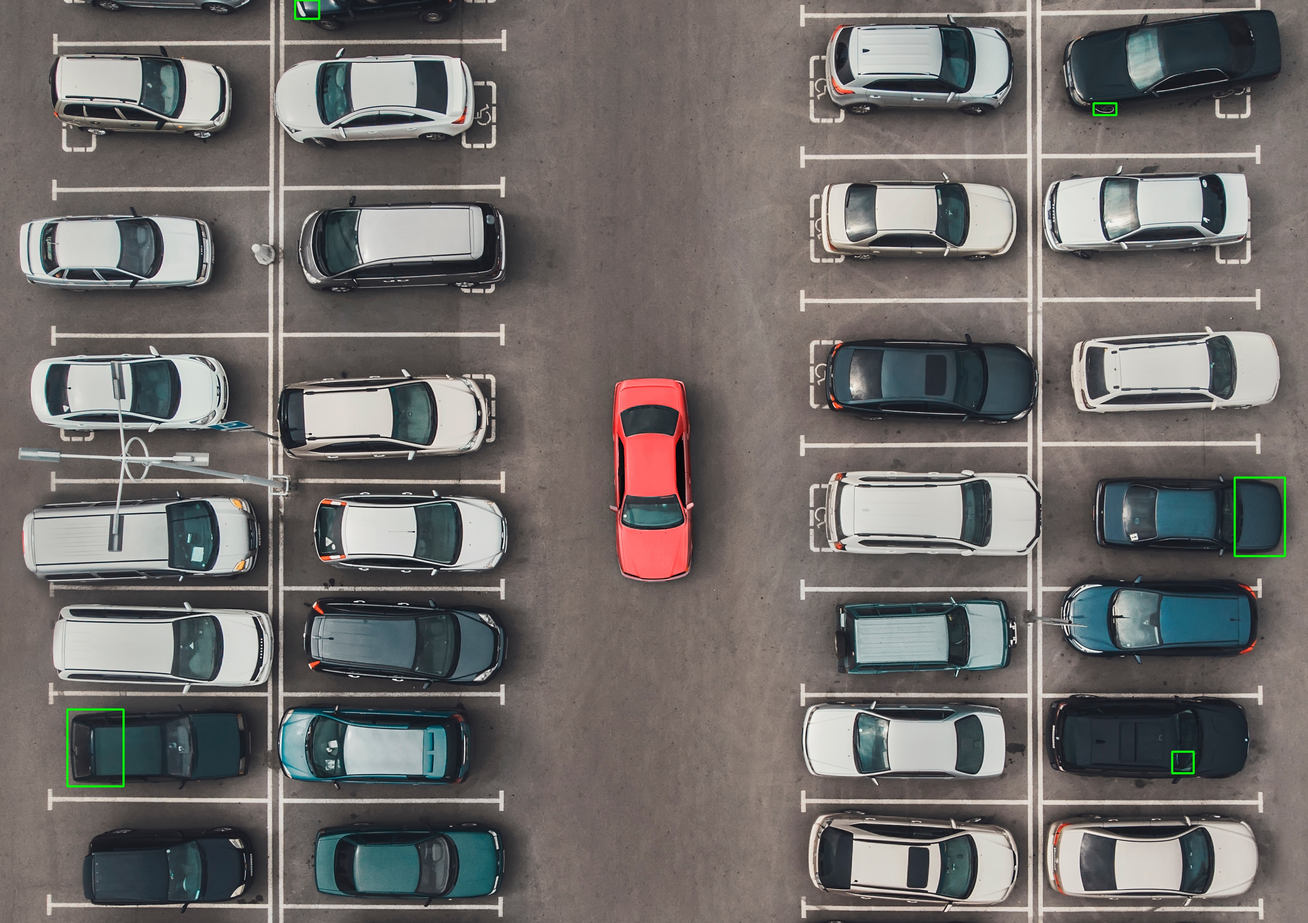
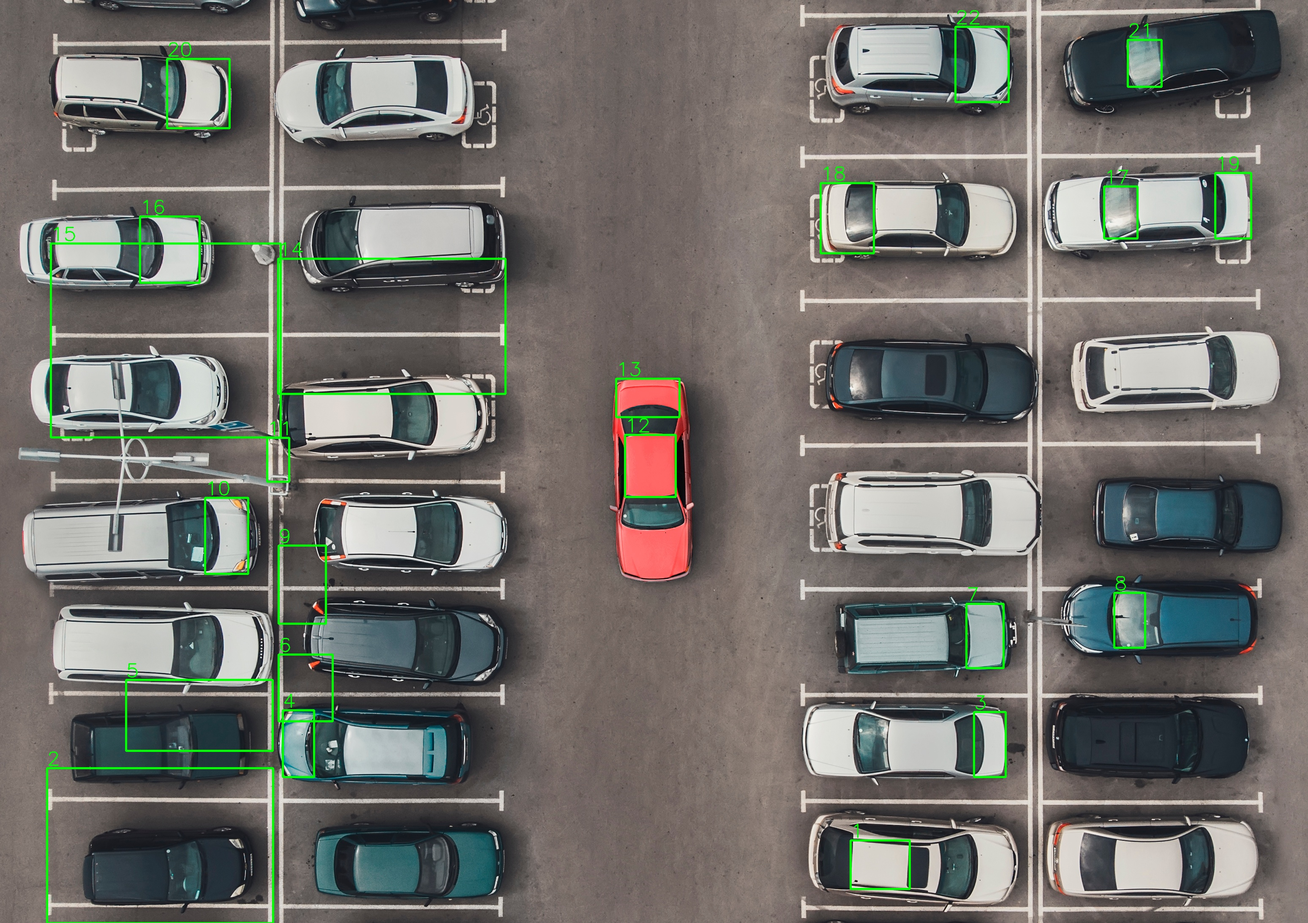
feat: chore: adjust kernel size, save pipeline steps, display box number, update readme

diff --git a/mp2-object-counting/mp2.py b/mp2-object-counting/mp2.py
@@ -2,33 +2,25 @@ import cv2
 import numpy as np
 import matplotlib.pyplot as plt
 
-# 1. BACA GAMBAR
 img_bgr = cv2.imread('input/parking_ori.jpg')
 img_rgb = cv2.cvtColor(img_bgr, cv2.COLOR_BGR2RGB)
 gray = cv2.cvtColor(img_bgr, cv2.COLOR_BGR2GRAY)
 
-# --- TAHAP 1: PREPROCESSING & THRESHOLDING ---
-# Blur sedang untuk membuang noise pasir
+# remove grainy noise
 blurred = cv2.GaussianBlur(gray, (5, 5), 0)
 
-# OTSU THRESHOLDING (PENGGANTI CANNY)
-# Memisahkan area terang (mobil/garis) dan gelap (aspal) secara otomatis
+# otsu thresholding for separating bright(cars) and dark areas
 _, thresh = cv2.threshold(blurred, 0, 255, cv2.THRESH_BINARY + cv2.THRESH_OTSU)
 
 
-# --- TAHAP 2: MORPHOLOGICAL CLEANING ---
-# Masalah baru: Garis parkir ikut jadi putih.
-# Solusi: Kita "hapus" garis putih yang tipis menggunakan Opening (Erosi lalu Dilasi)
-# Kita pakai kernel bentuk "kotak" yang ukurannya disesuaikan untuk menghapus garis tapi mempertahankan mobil
-kernel_open = np.ones((7, 7), np.uint8)
+kernel_open = np.ones((5, 5), np.uint8)
 opened = cv2.morphologyEx(thresh, cv2.MORPH_OPEN, kernel_open)
 
-# Setelah garis parkir mulai hilang, kita padatkan lagi sisa mobilnya (Dilasi)
-kernel_dilate = np.ones((5, 5), np.uint8)
+# memadatkan mobil
+kernel_dilate = np.ones((3, 3), np.uint8)
 dilated = cv2.dilate(opened, kernel_dilate, iterations=1)
 
 
-# --- TAHAP 3: CONTOURS & FILTERING ---
 contours, hierarchy = cv2.findContours(dilated, cv2.RETR_EXTERNAL, cv2.CHAIN_APPROX_SIMPLE)
 result_img = img_rgb.copy()
 car_count = 0
@@ -36,39 +28,44 @@ car_count = 0
 for cnt in contours:
     area = cv2.contourArea(cnt)
     
-    # FILTER AREA
-    # Karena mobil sekarang berupa blok padat yang besar, batasnya bisa kita set lebar
+    # filter area
     if 2500 < area < 15000: 
         x, y, w, h = cv2.boundingRect(cnt)
         aspect_ratio = float(w) / h
         
-        # FILTER BENTUK (Buang sisa garis parkir yang memanjang)
+        # filter bentuk (buang garis parkir yg memanjang)
         if 0.4 < aspect_ratio < 2.5:
-            cv2.rectangle(result_img, (x, y), (x+w, y+h), (0, 255, 0), 4)
             car_count += 1
+            cv2.rectangle(result_img, (x, y), (x+w, y+h), (0, 255, 0), 4)
+            cv2.putText(result_img, f"{car_count}", (x, y - 7), 
+                            cv2.FONT_HERSHEY_SIMPLEX, 1.5, (0, 255, 0), 2)
 
-# --- VISUALISASI ---
+
 plt.figure(figsize=(15, 10))
 
 plt.subplot(2, 2, 1)
 plt.imshow(thresh, cmap='gray')
 plt.title('1. Otsu Threshold (Banyak Noise Garis)')
 plt.axis('off')
+cv2.imwrite('output/steps/parking_thresh.jpg', thresh)
 
 plt.subplot(2, 2, 2)
 plt.imshow(opened, cmap='gray')
 plt.title('2. Morph Opening (Garis Dihapus)')
 plt.axis('off')
+cv2.imwrite('output/steps/parking_opened.jpg', opened)
 
 plt.subplot(2, 2, 3)
 plt.imshow(dilated, cmap='gray')
 plt.title('3. Morph Dilation (Mobil Dipadatkan)')
 plt.axis('off')
+cv2.imwrite('output/steps/parking_dilated.jpg', dilated)
 
 plt.subplot(2, 2, 4)
 plt.imshow(result_img)
 plt.title(f'4. Hasil Akhir ({car_count} Mobil)')
 plt.axis('off')
+cv2.imwrite('output/parking_counted.jpg', cv2.cvtColor(result_img, cv2.COLOR_RGB2BGR))
 
 plt.tight_layout()
 plt.show()

diff --git a/mp2-object-counting/README.md b/mp2-object-counting/README.md
@@ -2,3 +2,75 @@
 - **Nama**: Anak Agung Ngurah Agung Kresna Ananta
 - **NRP**: 5024241085
 
+## Struktur Project
+```
+mp2-object-counting/
+├── README.md              # Dokumentasi proyek
+├── counting.py            # Program Python utama
+├── input/
+│   └── parking.jpg        # Citra input
+└── output/
+    ├── result.png         # Citra output (mobil ditandai/diberi bounding box)
+    └── steps/             # Visualisasi tiap tahap pipeline
+```
+
+## Penjelasan Pipeline
+Pendekatan yang digunakan dalam proyek ini adalah **Threshold-based Segmentation** dipadukan dengan **Morphological Operations**. Berikut adalah tahapannya:
+
+1. **Preprocessing (Grayscale & Gaussian Blur):**
+   - Citra diubah menjadi *grayscale* untuk menyederhanakan matriks warna menjadi intensitas cahaya (0-255).
+   - Diterapkan `cv2.GaussianBlur` dengan kernel (5,5) untuk menghaluskan noise berpasir pada tekstur aspal tanpa merusak garis tepi mobil yang signifikan.
+
+2. **Otsu Thresholding:**
+   - Menggunakan `cv2.threshold` dengan metode Otsu. Algoritma ini secara otomatis mencari nilai ambang batas (*threshold*) paling optimal untuk memisahkan objek terang (mobil putih/terang dan garis parkir) dari *background* gelap (aspal).
+
+3. **Morphological Cleaning (Opening):**
+   - Hasil thresholding menghasilkan banyak "sampah" berupa garis parkir putih.
+   - Operasi `cv2.morphologyEx` dengan mode `MORPH_OPEN` (kernel 5x5) digunakan. Proses ini (Erosi diikuti Dilasi) secara efektif menghapus objek putih yang tipis (garis parkir) namun mempertahankan objek putih yang masif (badan mobil).
+
+4. **Morphological Dilation (Pemadatan):**
+   - Operasi `cv2.dilate` (kernel 3x3) digunakan untuk memadatkan kembali gumpalan putih badan mobil yang mungkin sedikit terkikis pada tahap *Opening*, memastikan mobil menjadi satu blok solid.
+
+5. **Contour Extraction & Filtering:**
+   - Menggunakan `cv2.findContours` (`RETR_EXTERNAL`) untuk mencari batas luar dari setiap blok putih.
+   - **Filter Area (2500 - 15000 px):** Membuang sisa titik noise (area < 2500) dan *mega-blob* akibat beberapa mobil yang menyatu (area > 15000).
+   - **Filter Aspect Ratio (0.4 - 2.5):** Memastikan objek yang dikotak memiliki rasio proporsional layaknya mobil (persegi panjang), membuang sisa garis panjang yang lolos.
+
+   ## Visualisasi Tahapan
+Berikut adalah visualisasi dari setiap langkah pemrosesan citra yang disimpan pada direktori `output/steps/`:
+
+| Tahap | Gambar | Deskripsi Singkat |
+| :---: | :---: | :--- |
+| **1** | ![Otsu](output/steps/parking_thresh.jpg) | **Otsu Thresholding:** Pemisahan *foreground* terang dan *background* gelap. Garis parkir masih terlihat jelas. |
+| **2** | ![Opening](output/steps/parking_opened.jpg) | **Morph Opening:** Garis parkir tipis berhasil dihapus, menyisakan badan mobil. |
+| **3** | ![Dilation](output/steps/parking_dilated.jpg) | **Morph Dilation:** Pemadatan gumpalan putih agar badan mobil tidak berlubang/terputus. |
+| **4** | ![Result](output/parking_counted.jpg) | **Final Bounding Box:** Penggambaran kotak pada kontur yang lolos seleksi luas area dan rasio. |
+
+## Hasil Deteksi
+Berdasarkan pipeline pemrosesan citra yang telah dibangun, program berhasil mendeteksi sebanyak:
+**22 Mobil**
+
+## Analisis
+Selama proses pengembangan algoritma, terdapat beberapa kendala operasional yang mempengaruhi tingkat akurasi deteksi:
+
+- **Kendala 1 (Kelemahan Otsu pada Mobil Gelap):** Algoritma Otsu Thresholding murni mengandalkan kontras terang/gelap. Mobil berwarna hitam dan abu-abu gelap memiliki nilai intensitas piksel yang sangat mirip dengan warna aspal. Akibatnya, mobil-mobil gelap tersebut dianggap sebagai *background* oleh Otsu dan berubah menjadi piksel hitam (hilang), sehingga gagal dideteksi.
+- **Kendala 2 (Gumpalan Menyatu / *Fused Blobs*):** Pada beberapa area (khususnya deretan parkir sebelah kiri), jarak antar mobil sangat berdekatan dan terhubung oleh sisa piksel putih. Hal ini membuat OpenCV mendeteksinya sebagai satu objek besar yang akhirnya terbuang oleh filter luasan area maksimal.
+- **Apa yang bisa ditingkatkan:** 1. Untuk mengatasi hilangnya mobil gelap, *Global Thresholding* (Otsu) dapat diganti dengan *Adaptive Thresholding* atau pendekatan *Edge-based* (Canny Edge Detection).
+  2. Untuk mengatasi *Bounding Box* yang tumpang tindih akibat kontur yang terpecah, dapat diimplementasikan metode pengelompokan spasial (*Non-Maximum Suppression* / *Distance-Based Grouping*).
+
+  ## Cara Menjalankan Program
+1. Clone repository ini dan Masuk ke folder `mp1-image-restoration`:
+    ```bash
+    git clone https://github.com/Kresnananta/mini-project-pcv.git
+    cd mp2-object-counting
+    ```
+2. Pastikan Anda telah menginstal *library* prasyarat:
+   ```bash
+   pip install numpy matplotlib opencv-python
+   ```
+3. Pastikan file citra input `parking_ori.jpg` berada pada direktori yang tepat (misalnya di folder `input/`).
+
+4. Jalankan program:
+    ```bash
+    python mp2.py
+    ```
